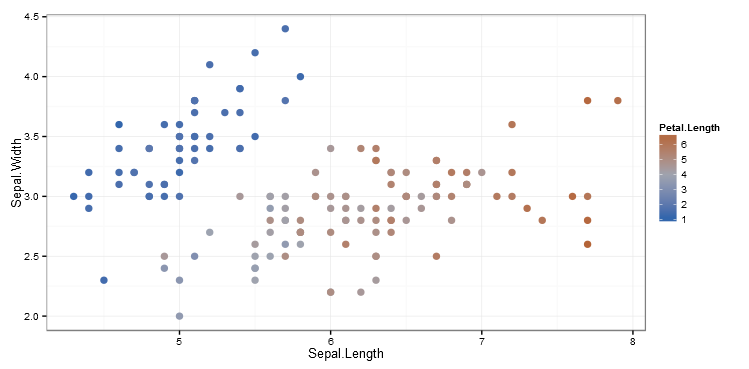
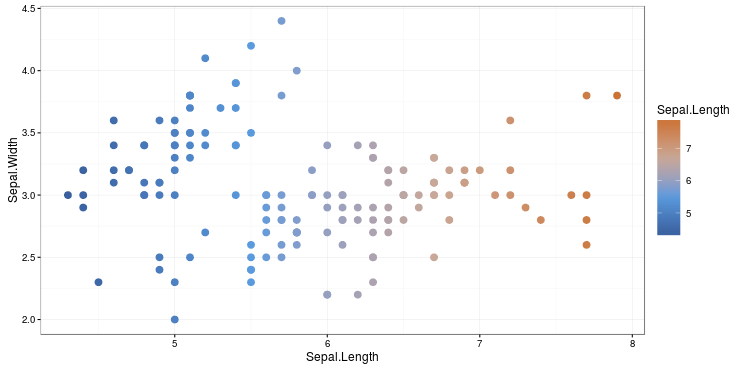
More README

diff --git a/README.md b/README.md
@@ -89,7 +89,7 @@ p + theme_bw() + scale_color_image(image=desert)
 
 ``` r
 #Create plot
-p <- ggplot(data = iris, aes(x=Sepal.Length, y=Sepal.Width, col=Petal.Length)) + geom_point(size=3)
+p <- ggplot(data = iris, aes(x=Sepal.Length, y=Sepal.Width, col=Sepal.Length)) + geom_point(size=3)
 #Use discrete=FALSE for a continuous scale
 p + theme_bw() + scale_color_image(image=desert, discrete=FALSE) 
 ```
